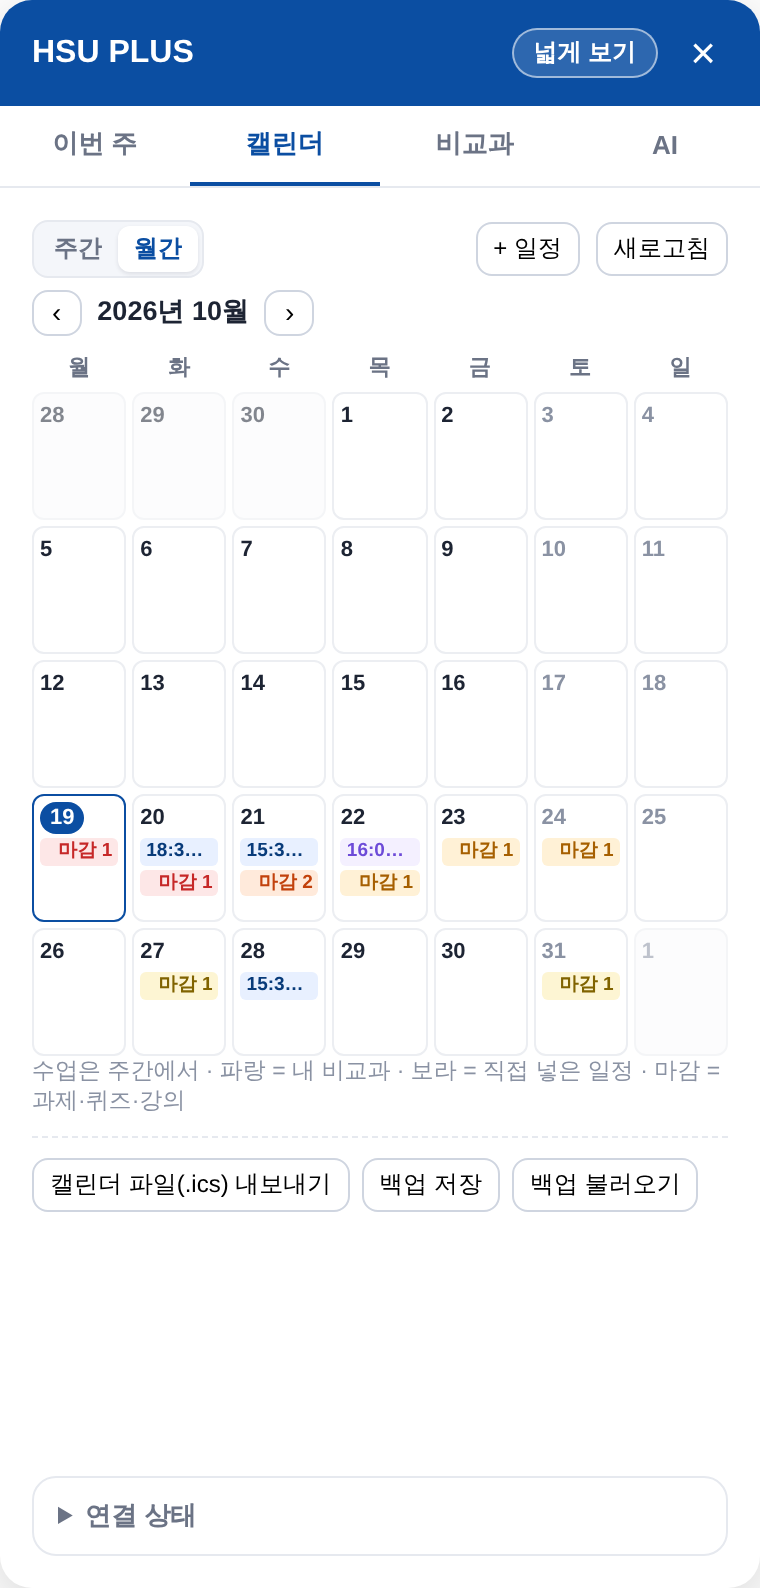
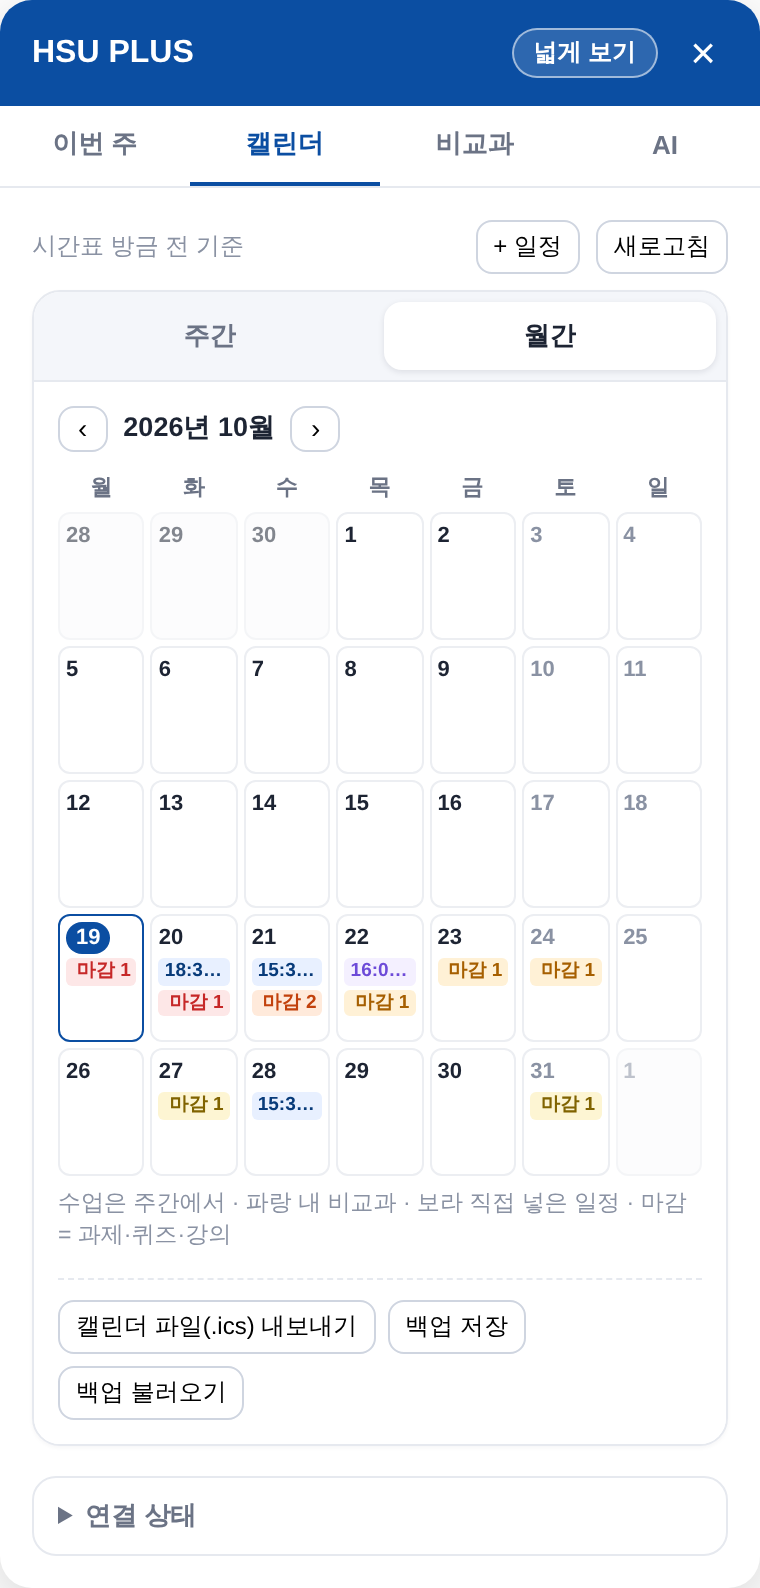
캘린더: 주간 | 월간을 넓은 선택으로, 머리줄 정리
- 주간 | 월간을 이번 주·비교과 탭처럼 액자 위 넓은 선택으로
- 맨 위 줄은 "n분 전 기준 · + 일정 · 새로고침"만
- 설명 줄을 격자 아래로 옮기고 토·일 버튼과 한 줄로
- 액자 안 흰 바탕, README 캘린더 그림 2장 갱신

diff --git a/content/main.js b/content/main.js
@@ -661,20 +661,10 @@
   }
 
   // ---- 머리줄 ----
+  // 머리줄: 이번 주·비교과 탭과 같은 모양 (위 "n분 전 기준 · + 일정 · 새로고침", 아래 액자의 넓은 주간 | 월간 선택) (10/19 사용자)
   function calHead() {
-    const modeBtn = (id, label) =>
-      el("button", {
-        class: calMode === id ? "seg-mini active" : "seg-mini",
-        text: label,
-        onclick: () => {
-          calMode = id;
-          calDay = null;
-          renderCalendar();
-        },
-      });
     return el("div", { class: "section-head" }, [
-      el("div", { class: "seg-mini-wrap" }, [modeBtn("week", "주간"), modeBtn("month", "월간")]),
-      el("span", { class: "meta", text: loading ? "불러오는 중…" : week?.fetchedAt && calMode === "week" ? `시간표 ${ago(week.fetchedAt)}` : "" }),
+      el("span", { class: "meta", text: loading ? "불러오는 중…" : week?.fetchedAt ? `시간표 ${ago(week.fetchedAt)}` : "" }),
       el("button", { class: "small", text: "+ 일정", onclick: () => openEventForm() }),
       el("button", {
         class: "small",
@@ -688,15 +678,35 @@
       }),
     ]);
   }
+  const CAL_MODES = [
+    { id: "week", label: "주간" },
+    { id: "month", label: "월간" },
+  ];
 
   function renderCalendar() {
     if (current !== "calendar") return;
-    const parts = [calHead()];
-    if (evDraft) parts.push(eventForm());
-    if (calMode === "month") parts.push(...monthView());
-    else parts.push(...weekView());
-    parts.push(calTools());
-    content.replaceChildren(...parts);
+    const seg = el(
+      "div",
+      { class: "seg", role: "tablist" },
+      CAL_MODES.map((m) =>
+        el("button", {
+          class: m.id === calMode ? "seg-btn active" : "seg-btn",
+          role: "tab",
+          "aria-selected": String(m.id === calMode),
+          text: m.label,
+          onclick: () => {
+            calMode = m.id;
+            calDay = null;
+            renderCalendar();
+          },
+        })
+      )
+    );
+    const inner = [];
+    if (evDraft) inner.push(eventForm());
+    inner.push(...(calMode === "month" ? monthView() : weekView()));
+    inner.push(calTools());
+    content.replaceChildren(calHead(), el("div", { class: "frame cal" }, [seg, el("div", { class: "frame-body" }, inner)]));
   }
 
   // ---- 주간 ----
@@ -851,17 +861,19 @@
     }
 
     if (week.ok && !classes.length && !extra.length) parts.push(el("p", { class: "placeholder", text: offset ? "다음 주 수업·일정이 없어요." : "이번 주 수업·일정이 없어요." }));
-    parts.push(el("p", { class: "tt-legend", text: "흰 칸 = 내 비교과 · 보라 테두리 = 직접 넣은 일정 · 요일이나 종일 줄을 누르면 그날 목록" }));
     parts.push(grid);
     parts.push(
-      el("button", {
+      el("div", { class: "cal-foot" }, [
+        el("span", { class: "tt-legend", text: "흰 칸 내 비교과 · 보라 직접 넣은 일정 · 요일을 누르면 그날 목록" }),
+        el("button", {
         class: "weekend-toggle",
         text: weekendOpen ? "토·일 접기" : `토·일 펼치기${weekendCount || weekendDues ? ` (${[weekendCount ? `일정 ${weekendCount}` : "", weekendDues ? `마감 ${weekendDues}` : ""].filter(Boolean).join(" · ")})` : ""}`,
         onclick: () => {
           calWeekendOpen = !weekendOpen;
           renderCalendar();
         },
-      })
+        }),
+      ])
     );
     if (calDay) {
       const d = fromYmd(calDay);
@@ -942,7 +954,7 @@
       );
     }
     parts.push(grid);
-    parts.push(el("p", { class: "tt-legend", text: "수업은 주간에서 · 파랑 = 내 비교과 · 보라 = 직접 넣은 일정 · 마감 = 과제·퀴즈·강의" }));
+    parts.push(el("div", { class: "cal-foot" }, [el("span", { class: "tt-legend", text: "수업은 주간에서 · 파랑 내 비교과 · 보라 직접 넣은 일정 · 마감 = 과제·퀴즈·강의" })]));
     if (calDay) {
       const d = fromYmd(calDay);
       parts.push(dayDetail(calDay, [...allDayOf(d, items.filter((x) => x.allDay)), ...items.filter((x) => !x.allDay && sameDay(x.start, d))]));

diff --git a/content/panel.css b/content/panel.css
@@ -555,3 +555,12 @@ button.tt-day.today { color: var(--ot-primary); }
 .ap-stags { display: flex; flex-direction: column; align-items: flex-end; gap: 2px; flex: none; }
 .tcard.ap .tc-foot .dline { overflow: hidden; }
 .tcard.ap .tc-foot .dline .when { overflow: hidden; text-overflow: ellipsis; }
+
+/* 캘린더 탭: 액자 + 넓은 주간 | 월간 선택 (10/19). 격자가 회색 위에 있으면 답답해서 액자 안은 흰 바탕 */
+.frame.cal > .frame-body { background: #fff; padding: 12px; }
+.frame.cal .cal-sub { margin: 0 0 8px; }
+.cal-foot { display: flex; align-items: flex-start; gap: 10px; margin-top: 6px; }
+.cal-foot .tt-legend { flex: 1; margin: 0; line-height: 1.45; }
+.cal-foot .weekend-toggle { flex: none; margin-top: 0; }
+.frame.cal .ev-form { margin-bottom: 12px; }
+.frame.cal .cal-tools { margin-top: 12px; }

diff --git a/docs/DEVLOG.md b/docs/DEVLOG.md
@@ -156,3 +156,4 @@
   - 내 비교과의 매주 회차(예: 집단상담 화10시 11/3~11/24)도 공개 안내문을 보고 매주로 판단해 캘린더·이번 주 탭에 매주 칸으로 올림
   - core/calendar.js(시간표 겹침, 구글 링크, .ics) + test/calendar.test.mjs 15개 통과. 가짜 데이터 화면 시험(주간·월간·일정 넣기·.ics·백업·신청 탭·이번 주 탭) 통과, 이전 시험(숨기기·동기화·AI) 다시 통과
   - README: 화면 3장 추가(주간·월간 캘린더, 신청), 주요 기능, 공용 PC 로그아웃 안내. MILESTONES: #9·#12·#13·캡처 체크
+  - (10/19 사용자) 캘린더 위쪽이 몰려 보임 → 주간 | 월간을 이번 주·비교과 탭처럼 액자 위 넓은 선택으로. 맨 위 줄은 "n분 전 기준 · + 일정 · 새로고침"만. 설명 줄은 격자 아래로(토·일 버튼과 한 줄). 액자 안은 흰 바탕
